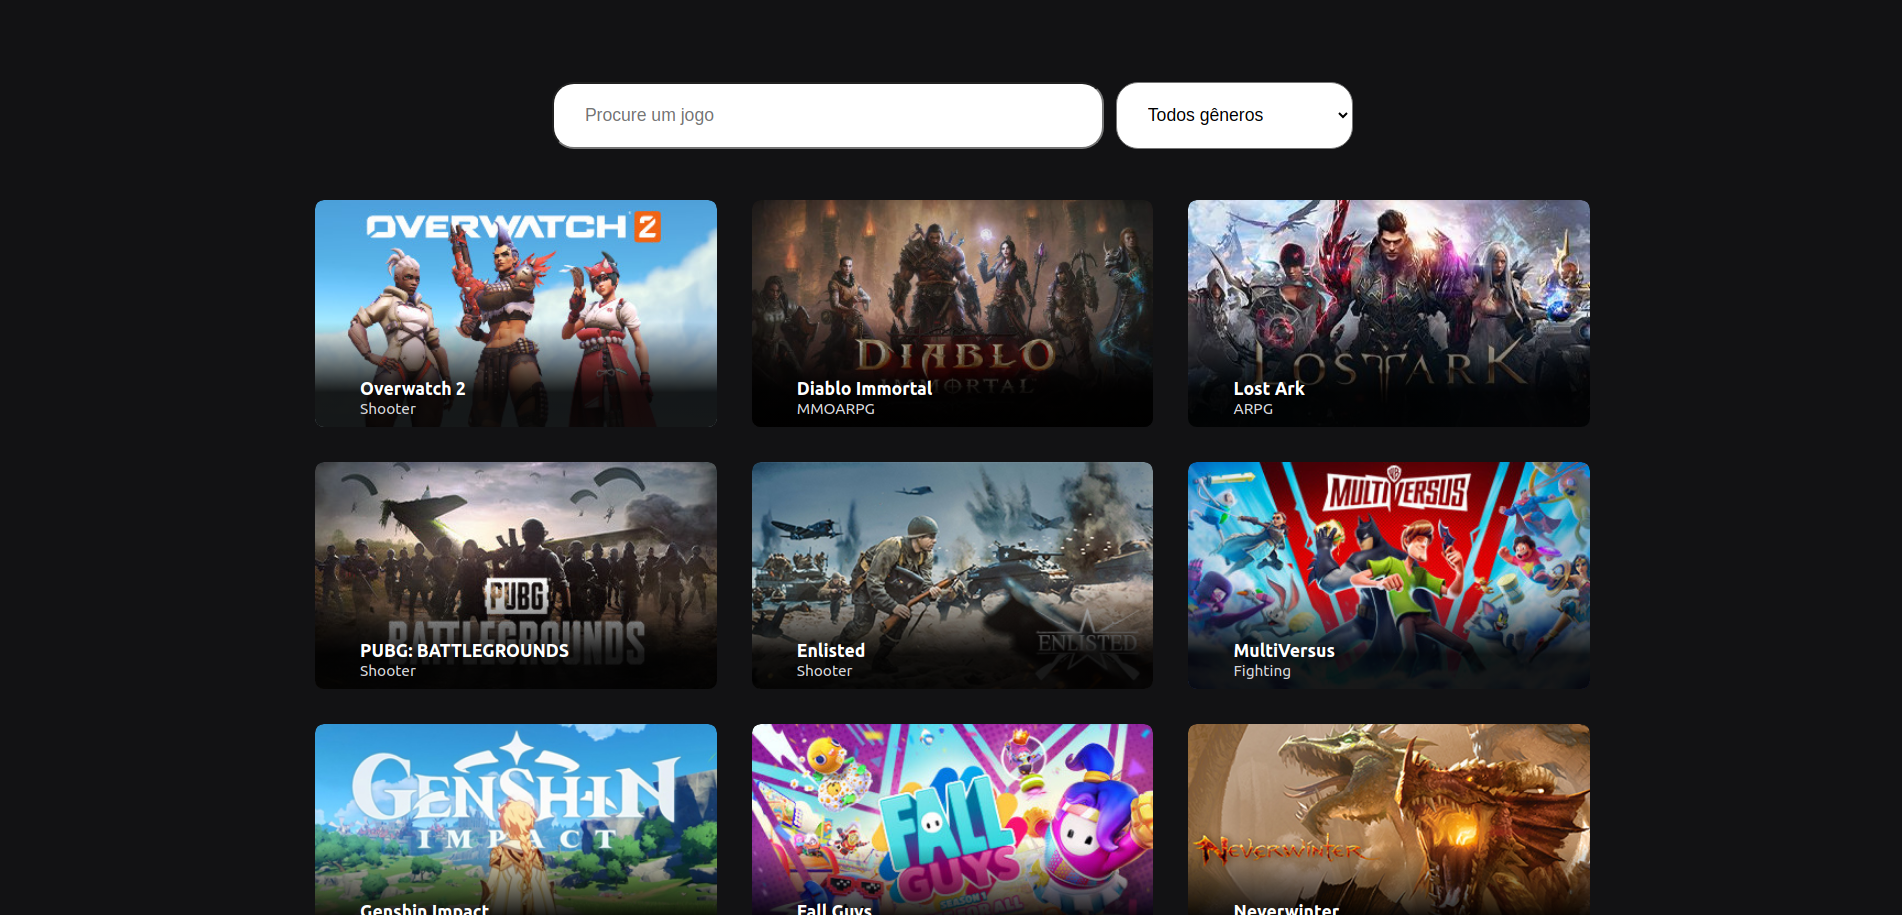
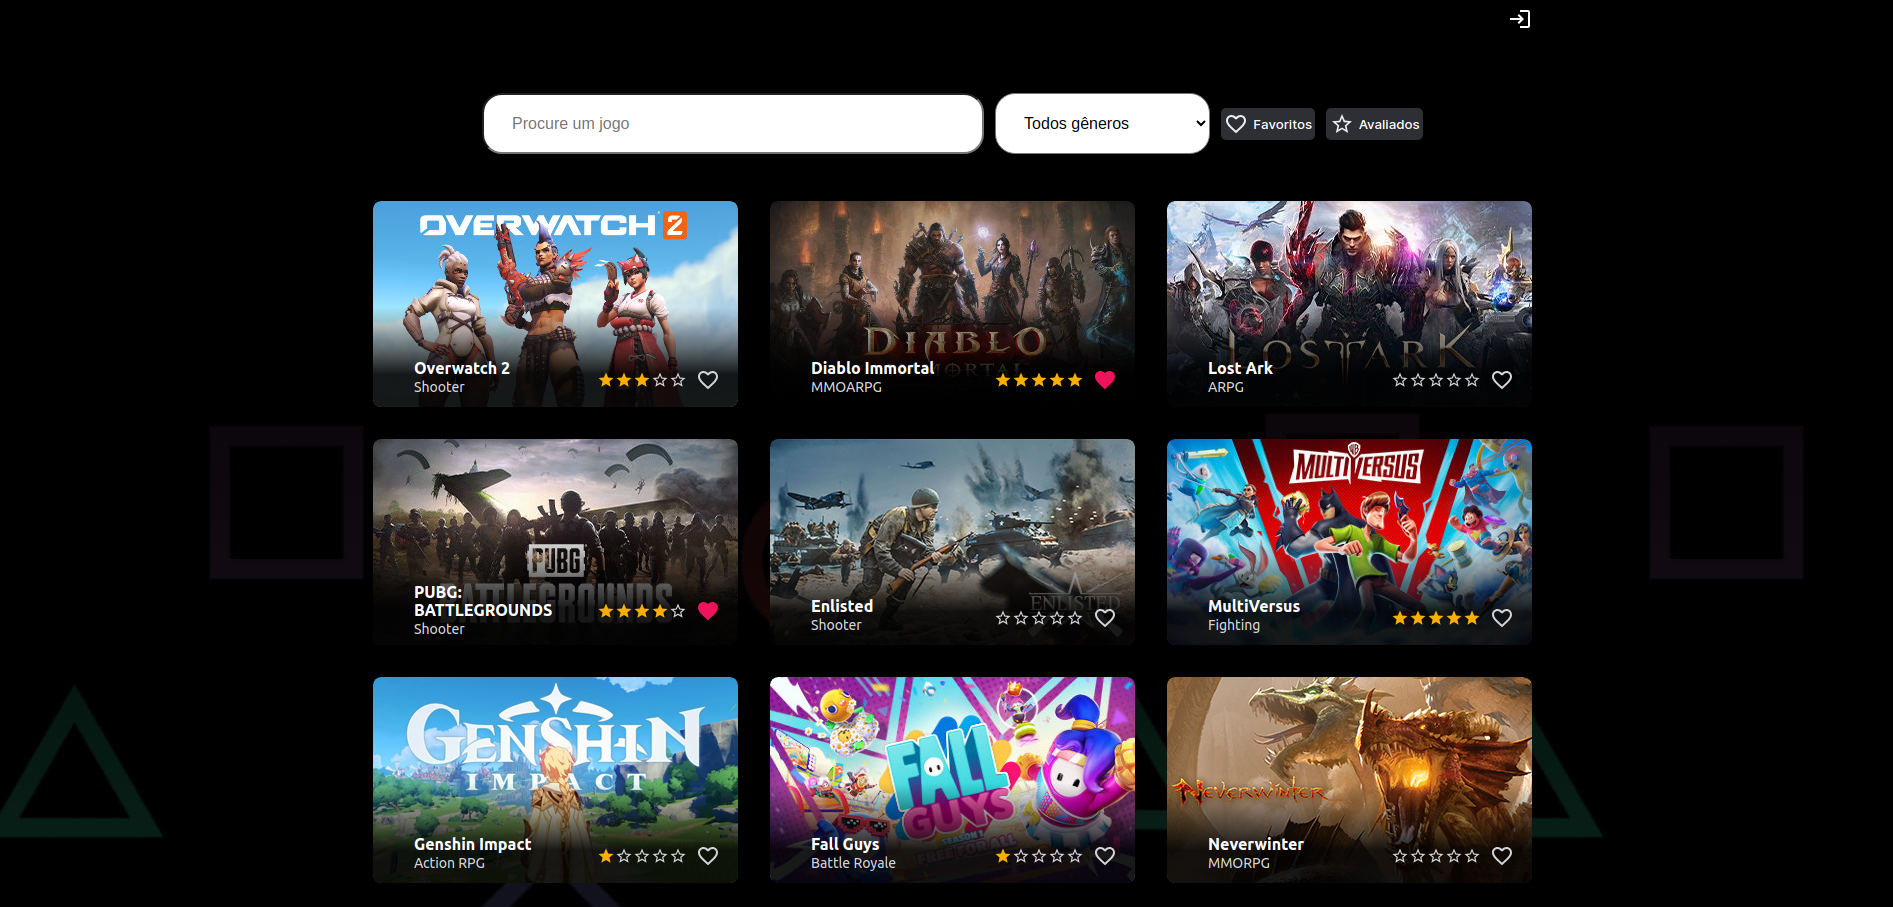
update README

diff --git a/README.md b/README.md
@@ -1,5 +1,5 @@
 <h1 align="center">
-    Desafio
+    Desafio v2
 </h1>
 
 <br/>
@@ -8,13 +8,15 @@
 
 Esse projeto é um desafio, onde é necessário descobrir como funciona a API e listar os jogos em cards. Além disso, é necessário filtrar os jogos pelo nome e gênero.
 
+Ademais, foi adicionada um login onde o usuário tem acesso a sua lista de jogos favoritos e avaliados.
+
 Link do projeto: https://desafio-gamma.vercel.app/
 
 ## Tecnologias
 
-Esse projeto foi desenvolvido utilizando **React.JS** e **Typescript**, além da lib **react-loading-skeleton**
+Esse projeto foi desenvolvido utilizando **React.JS** e **Typescript**, além da lib **react-loading-skeleton**. Além disso, foi utilizado o **FireBase** para registrar as inforções do usuário
 
-## Requisitos Funcionais
+## Requisitos Funcionais (v1)
 
 - [x] O projeto deve ser feito usando React ou Next.JS
 - [x] Obter a lista de jogos em /data
@@ -29,13 +31,26 @@ Esse projeto foi desenvolvido utilizando **React.JS** e **Typescript**, além da
 - [x] Incluir um campo de busca, que permite localizar jogos pelo título, com busca case insensitive
 - [x] Uma vez que tenha os dados em mãos, veja quais genre foram retornados e permita ao usuário selecionar um deles, e então filtre para exibir apenas jogos do gênero selecionado
 
+## Requisitos Funcionais (v2)
+
+- [x] Utilizar Firebase para realizar autenticação usando email/senha
+- [x] Ter um 🩶 para o usuário favoritar o jogo diretamente na lista, ficando vermelho quando marcado
+- [x] Salvar no firebase os jogos favoritos do usuário, no realtime ou firestore
+- [x] Ter um botão “Favoritos” que apresenta apenas jogos favoritados, permitindo ainda buscar e filtrar estes jogos. Pode ser na própria lista já apresentada ou em uma separada se preferir.
+- [x] Ao lado do coração, ter ★★★★ para o usuário avaliar o jogo, podendo marcar de uma em uma. Ou seja, ele pode escolher 1, 2, 3 ou as 4.
+- [x] Ter uma forma de ordenar por avaliação, vendo os melhores (ou piores) primeiro, clicando novamente para inverter a ordem.
+- [x] Ao carregar a interface, deixar o ❤ vermelho para os itens favoritos e as ⭐ amarelas nos itens avaliados
+- [x] Ao acessar sem estar autenticado, os ícones 🩶 e ★ deverão estar visíveis, mas ao clicar irá solicitar a autenticação
+- [x] 👉 Ao obter os jogos da API e os dados do firebase, apresentar. Manter o loading para os jogos. Não precisa de loading enquanto espera o firebase, até porque o firebase devolverá os dados mais rapidamente e pode ser complicado “esperar o firebase” se estiver “escutando o firebase”.
+- [x] A autenticação deve acontecer na rota `/auth/` do frontend, usando o provedor “E-mail/senha” do firebase, onde o usuário poderá criar uma conta ou acessar a conta já existente (se mantendo apenas nesta rota)
+- [x] Escolher um item para aplicar uma animação com CSS, pode ser ao favoritar, ou avaliar, ou quando os itens surgirem
+- [x] Publicar seu projeto online
+
 <br/>
 
 ## Abaixo seguem algumas prints de todo o projeto
 
 <img src="images/img1.png">
-
-<img src="images/img2.png">
 
 <img src="images/desafio.gif">
 
